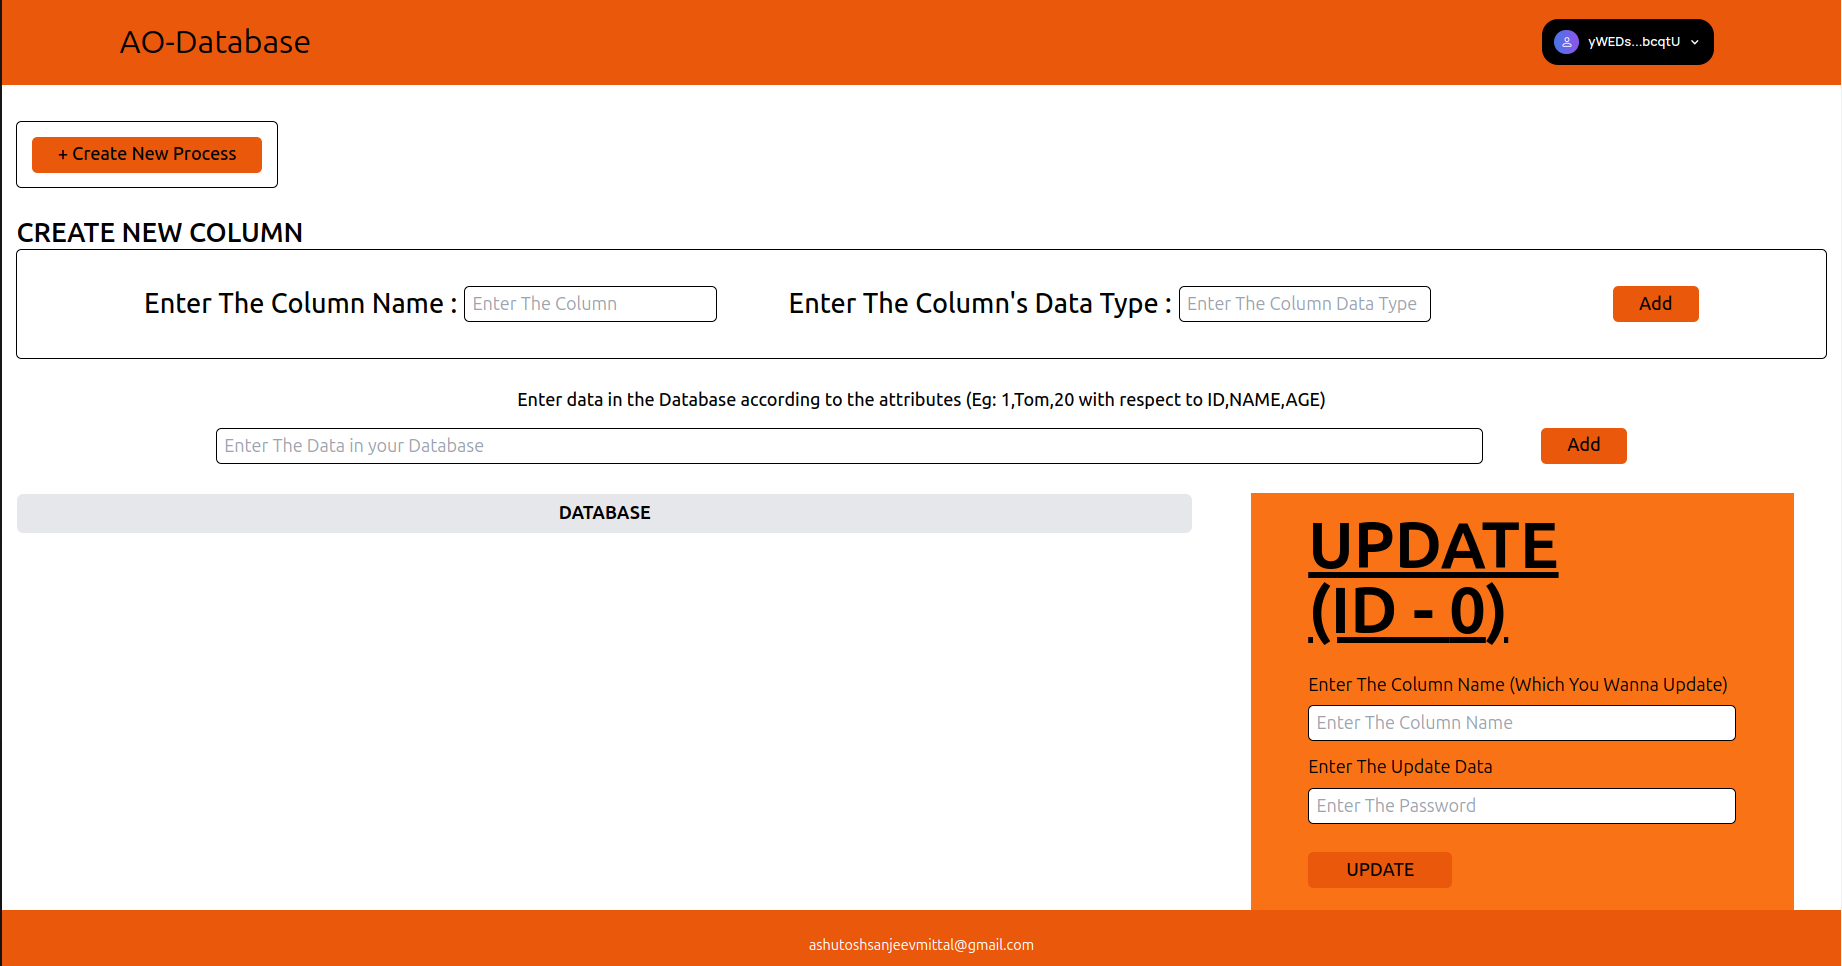
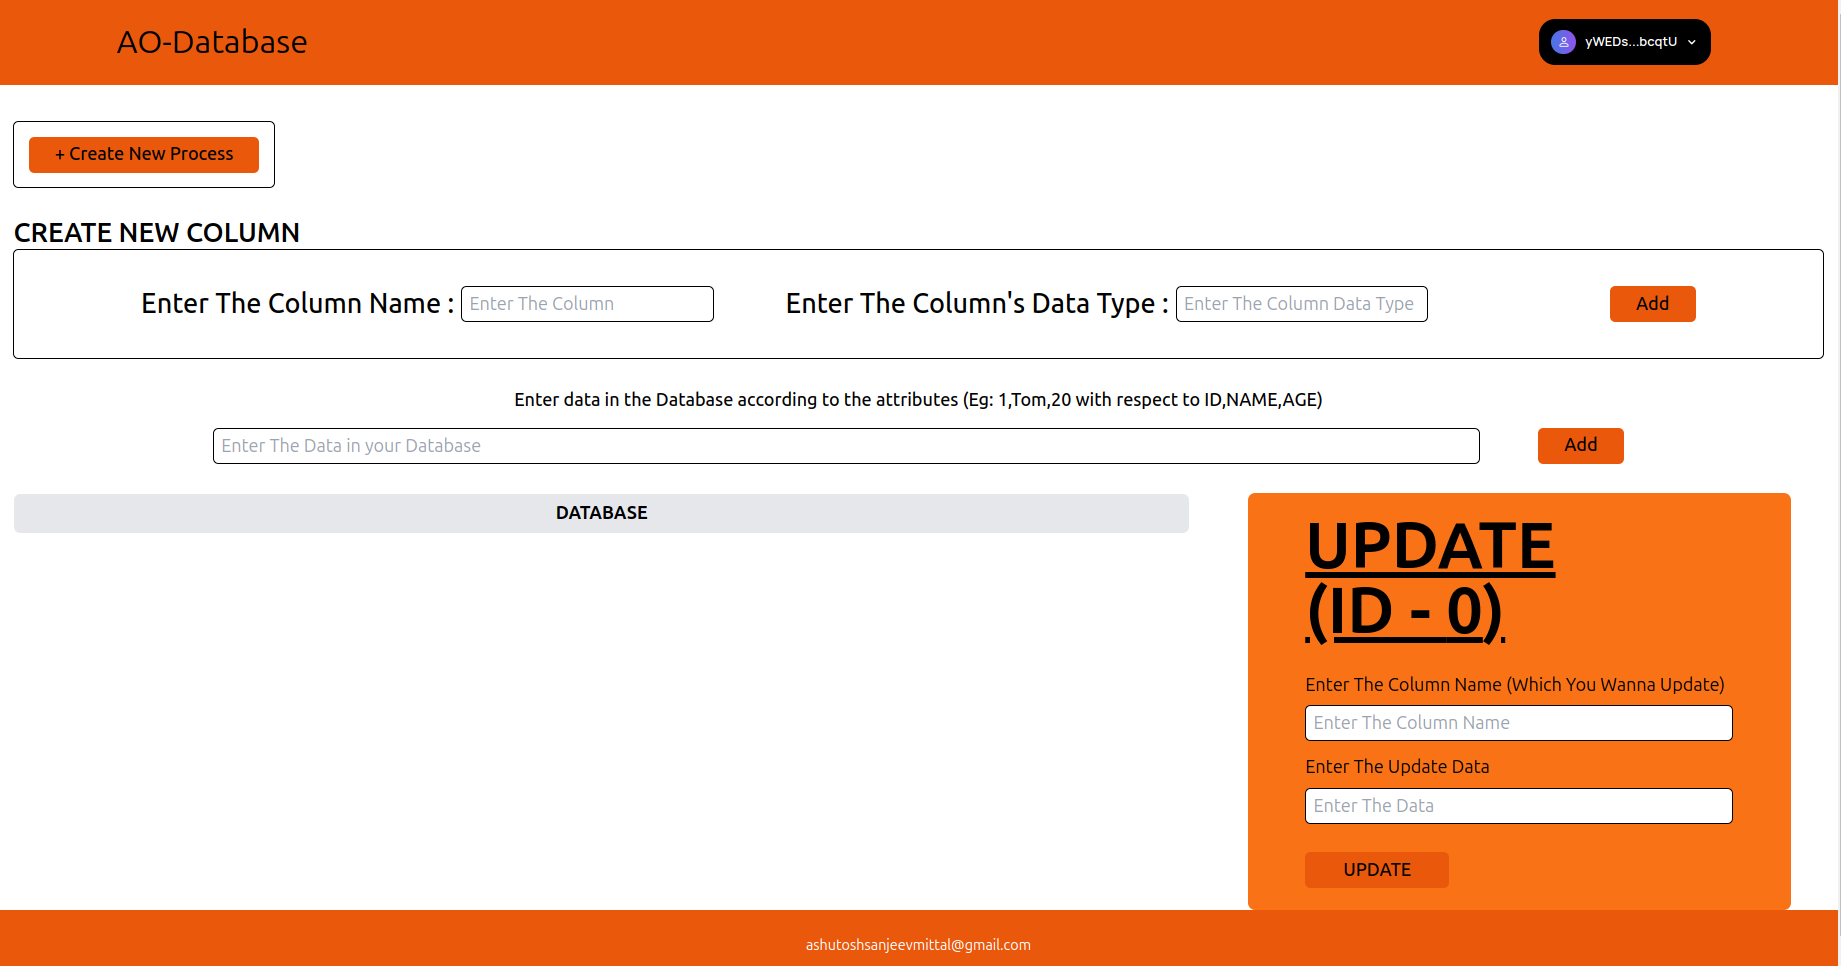
readme photo change

diff --git a/src/components/Home.jsx b/src/components/Home.jsx
@@ -680,7 +680,7 @@ update_values_into_table("MyDatabase","${updateColumn.column_name}","${updateCol
                 onChange={handleUpdateInput}
                 name="new_column_data"
                 id="new_column_data"
-                placeholder="Enter The Password"
+                placeholder="Enter The Data"
                 className="h-10 text-xl px-2 py-4 border-black border-2 rounded-md"
               ></input>
             </div>
